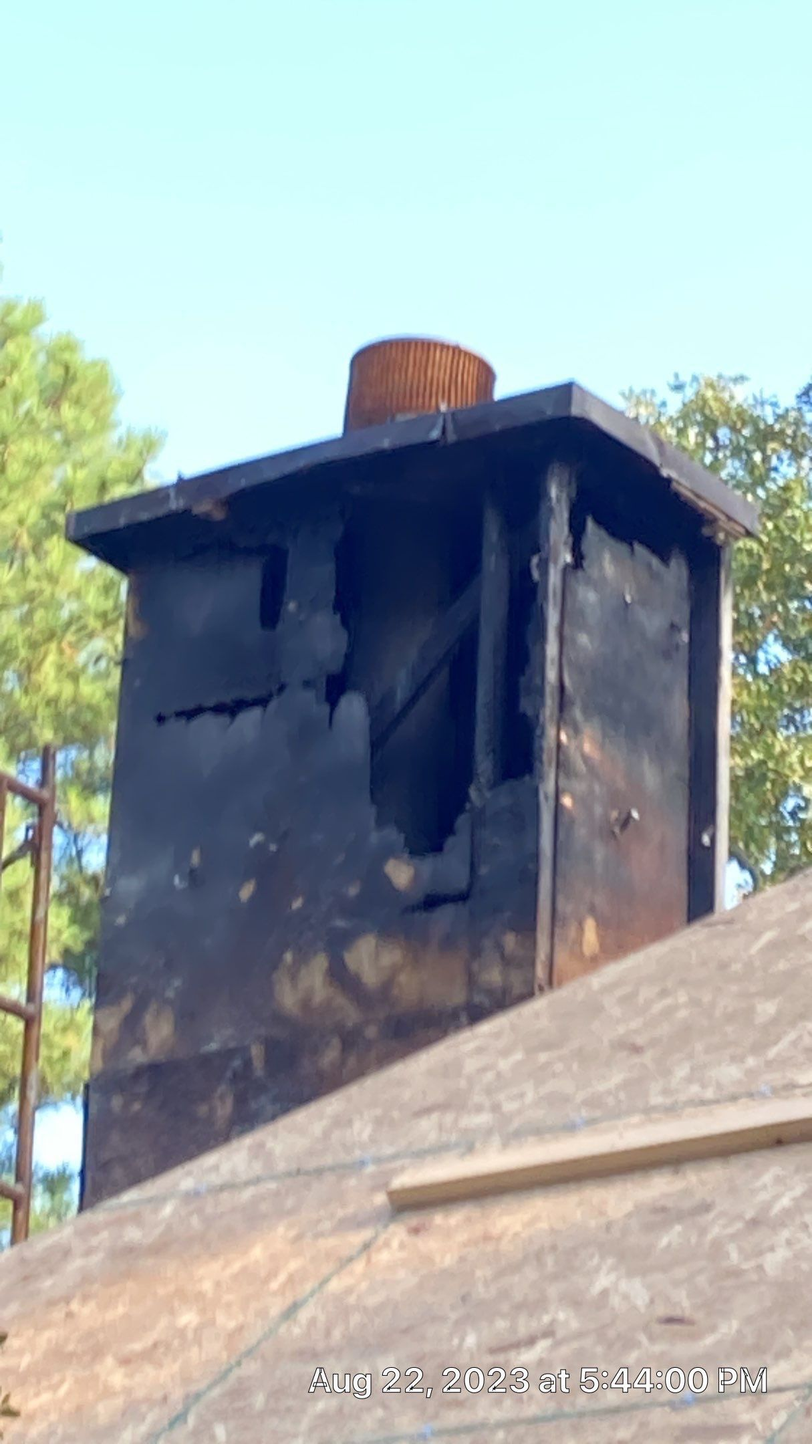
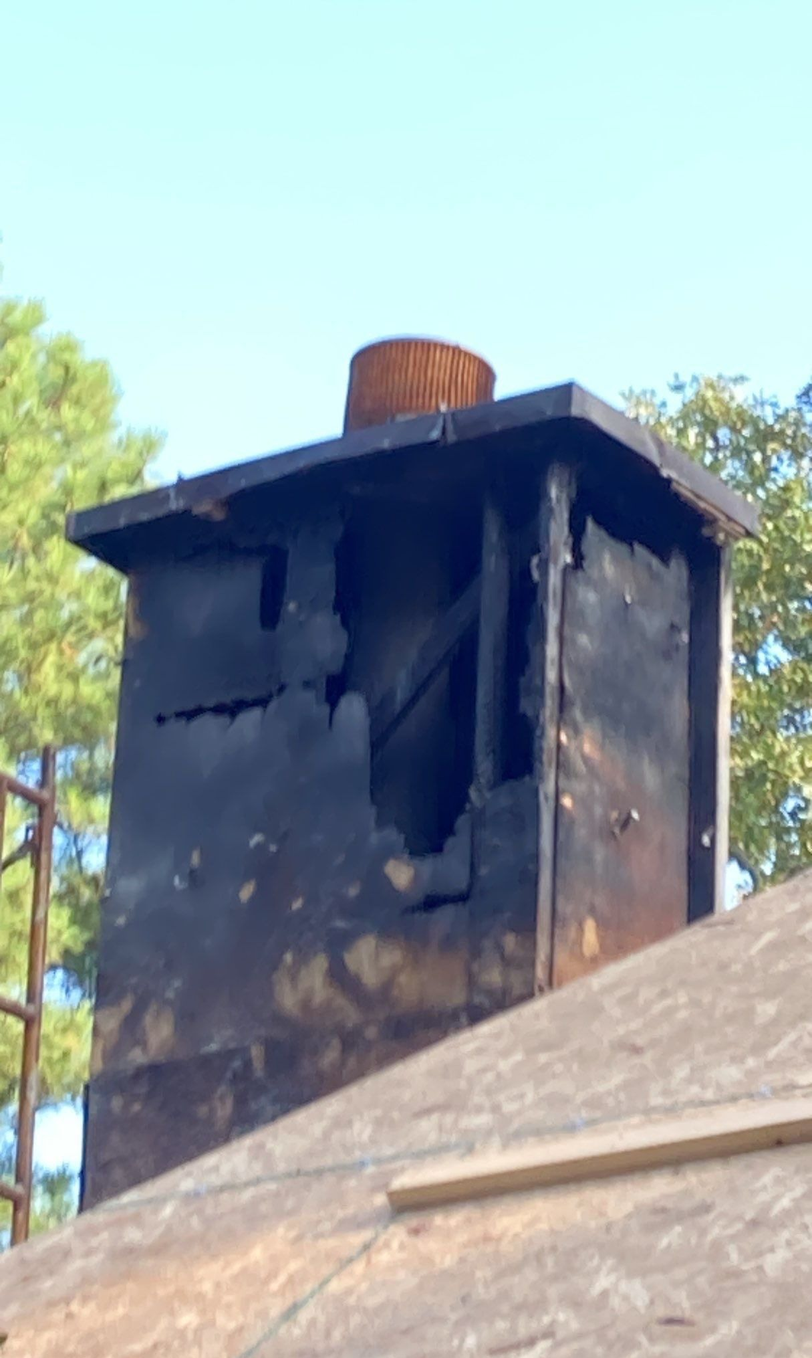
Deploy complete optimized homepage

diff --git a/index.html b/index.html
@@ -12,17 +12,17 @@
   <meta property="og:site_name" content="Crain Bros Inc">
   <meta property="og:locale" content="en_US">
   <meta name="twitter:card" content="summary_large_image">
-  <meta property="og:image" content="https://services.crainbrosinc.com/images/page-assets/home-page/homepage-social-card-northeast-arkansas-crain-bros-inc-01.jpg">
-  <meta property="og:image:secure_url" content="https://services.crainbrosinc.com/images/page-assets/home-page/homepage-social-card-northeast-arkansas-crain-bros-inc-01.jpg">
-  <meta property="og:image:type" content="image/jpeg">
-  <meta property="og:image:width" content="1200">
-  <meta property="og:image:height" content="630">
-  <meta property="og:image:alt" content="Crain Bros Inc restoration, repairs, remodeling and construction social preview for Northeast Arkansas property owners">
-  <meta name="twitter:image" content="https://services.crainbrosinc.com/images/page-assets/home-page/homepage-social-card-northeast-arkansas-crain-bros-inc-01.jpg">
-  <meta name="twitter:image:alt" content="Crain Bros Inc restoration, repairs, remodeling and construction social preview for Northeast Arkansas property owners">
   <meta name="twitter:title" content="Restoration, Repairs &amp; Construction | Crain Bros Inc | Arkansas">
   <meta name="twitter:description" content="Crain Bros Inc provides restoration, repair, construction, inspection, consulting, plumbing, waterproofing, and remodeling services across Northeast Arkansas.">
   <meta name="google-site-verification" content="Vm2zaCWHNgJCrOvj8Az38ZfC3V48h4SuFMLG1rSOB3w">
+  <meta property="og:image:alt" content="Crain Bros Inc restoration, repairs, remodeling and construction social preview for Northeast Arkansas property owners">
+  <meta property="og:image:height" content="630">
+  <meta property="og:image:secure_url" content="https://services.crainbrosinc.com/images/page-assets/home-page/homepage-social-card-northeast-arkansas-crain-bros-inc-01.jpg">
+  <meta property="og:image:type" content="image/jpeg">
+  <meta property="og:image:width" content="1200">
+  <meta name="twitter:image:alt" content="Crain Bros Inc restoration, repairs, remodeling and construction social preview for Northeast Arkansas property owners">
+  <meta property="og:image" content="https://services.crainbrosinc.com/images/page-assets/home-page/homepage-social-card-northeast-arkansas-crain-bros-inc-01.jpg">
+  <meta name="twitter:image" content="https://services.crainbrosinc.com/images/page-assets/home-page/homepage-social-card-northeast-arkansas-crain-bros-inc-01.jpg">
   <link rel="canonical" href="https://services.crainbrosinc.com/">
   <link rel="icon" href="favicon.ico" sizes="32x32">
   <link rel="stylesheet" href="css/styles-v3.css">
@@ -105,14 +105,14 @@
     </nav>
   </div>
 </header>
-<main id="main-content">
+<main>
   <section class="hero">
     <div class="container">
-      <h1>Restoration, Repairs &amp; Construction in Northeast Arkansas</h1>
-      <p class="lead">Crain Bros Inc is a family owned Arkansas contractor based in Jonesboro. Since 1984 we have diagnosed what damaged a property, designed the repair, and rebuilt it to current building code. We self-perform our trades.</p>
+      <h1>Restoration, Repairs, Remodeling &amp; Construction in Northeast Arkansas</h1>
+      <p class="lead">Every property owner has different needs, and every building has its own history, purpose, and conditions. Crain Bros Inc starts by listening to what the property owner and occupants need from the property. We use building science, practical inspection, and an understanding of how the structure and its systems work together to evaluate the building and plan the right solution. From there, we design and carry out the appropriate restoration, repairs, improvements, alterations, remodeling, or construction. Our services are tailored around the property and the property owner's priorities for function, comfort, efficiency, appearance, occupancy, and future use. We are a family owned and operated Arkansas contractor based in Jonesboro, serving residential and commercial property owners across Northeast Arkansas since 1984.</p>
       <div class="hero-actions">
-        <a class="btn btn-primary" href="tel:+18709356019">Call (870) 935-6019</a>
-        <a class="btn btn-secondary" href="pages/services.html">View Services</a>
+        <a class="btn homepage-orange-cta" href="tel:+18709356019">Call Us to Discuss Your Property Needs</a>
+        <a class="btn homepage-orange-cta" href="pages/services.html">View Services</a>
       </div>
       <div class="hero-badges">
         <span class="badge">Licensed and Insured</span>
@@ -124,43 +124,49 @@
   <section class="section section-accent">
     <div class="container">
       <h2>What We Do</h2>
-      <p>Six service categories covering the full life of a property, from the first hour after damage occurs through a finished custom remodel. We self-perform roofing, siding, gutters, masonry, decks, HVAC, plumbing, electrical, flooring, painting, trim carpentry, cabinetry, countertops, framing, concrete, windows and doors, insulation, and drywall.</p>
+      <p>Some property owners come to us because part of their property has been damaged or keeps causing problems. Other property owners need the building to serve a new purpose, feel more comfortable, use energy more efficiently, support a different occupancy, or simply work better for everyday life. Our service portals connect inspection, design, restoration, improvement, and construction work so property owners can find the help that fits their property without trying to piece together the solution on their own.</p>
       <div class="grid-3">
         <article class="tile">
-          <img class="tile-photo" src="images/page-assets/home-page/service-cards/fire-damage-restoration/fire-damage-restoration-northeast-arkansas-crain-bros-inc-service-card-01.jpg" alt="Emergency property damage response by Crain Bros Inc in Northeast Arkansas" loading="lazy">
-          <h3>Emergency Response</h3>
-          <p class="muted">Stop the damage from getting worse. Board-up, roof tarping, water extraction, temporary stabilization, and documentation of the property as it was found. Reachable 24 hours a day.</p>
-          <a class="text-link" href="pages/emergency-response.html">Learn more</a>
-        </article>
-        <article class="tile">
-          <img class="tile-photo" src="images/page-assets/home-page/service-cards/building-inspection/building-inspection-northeast-arkansas-crain-bros-inc-service-card-01.jpg" alt="Building inspection and diagnostics by Crain Bros Inc in Northeast Arkansas" loading="lazy">
-          <h3>Building Inspection &amp; Diagnostics</h3>
-          <p class="muted">Find what caused the damage and document what is actually there. Inspection, damage assessment, scope development, building code review, and third-party independent lab testing.</p>
-          <a class="text-link" href="pages/inspection-diagnosis-design.html">Learn more</a>
-        </article>
-        <article class="tile">
-          <img class="tile-photo" src="images/page-assets/home-page/service-cards/building-restoration/building-restoration-northeast-arkansas-crain-bros-inc-service-card-01.jpg" alt="Property and building restoration by Crain Bros Inc in Northeast Arkansas" loading="lazy">
           <h3>Property &amp; Building Restoration</h3>
-          <p class="muted">Water, fire, mold, and storm damage restoration, plus personal property and contents care. Each damage type is mitigated, cleaned, verified, and rebuilt.</p>
-          <a class="text-link" href="pages/building-restoration.html">Learn more</a>
+          <img class="homepage-full-frame-photo" src="images/page-assets/home-page/service-cards/fire-damage-restoration/fire-damage-restoration-northeast-arkansas-crain-bros-inc-service-card-01.jpg" alt="Fire-damaged chimney and building exterior requiring property restoration by Crain Bros Inc in Northeast Arkansas" loading="lazy">
+          <p class="muted">When a property has been damaged, Crain Bros Inc helps the property owner move from the immediate problem toward a complete and lasting restoration. We assess the affected areas, address the conditions that can continue causing damage, clean or remediate materials when needed, verify the property is ready for the next phase, and rebuild the damaged parts of the structure. Keeping mitigation, restoration, and reconstruction connected under one primary contractor gives the property owner a clearer path from the first response through the completed work.</p>
+          <p class="homepage-service-list muted">Services include <a class="text-link" href="pages/water-damage.html">Water Damage Restoration</a>, <a class="text-link" href="pages/fire-damage.html">Fire Damage Restoration</a>, <a class="text-link" href="pages/mold-damage.html">Mold Damage Restoration</a>, <a class="text-link" href="pages/storm-damage.html">Storm Damage Restoration</a>, <a class="text-link" href="pages/contents-care.html">Personal Property &amp; Contents Care</a>, <a class="text-link" href="pages/general-contracting.html">General Restoration Contracting</a>, <a class="text-link" href="pages/framing.html">Framing Damage Restoration</a>, <a class="text-link" href="pages/roofing.html">Roofing Damage Restoration</a>, <a class="text-link" href="pages/drywall.html">Drywall Damage Restoration</a>, <a class="text-link" href="pages/flooring.html">Flooring Damage Restoration</a>, <a class="text-link" href="pages/siding.html">Siding Damage Restoration</a>.</p>
+          <a class="homepage-portal-button" href="pages/building-restoration.html">Explore Property &amp; Building Restoration</a>
         </article>
         <article class="tile">
-          <img class="tile-photo" src="images/page-assets/home-page/service-cards/construction/construction-northeast-arkansas-crain-bros-inc-service-card-01.jpg" alt="General contracting and construction by Crain Bros Inc in Northeast Arkansas" loading="lazy">
-          <h3>General Contracting</h3>
-          <p class="muted">New construction, additions, full rebuilds, and commercial projects. Full design and delivery from foundations through custom framing, with construction management on every job.</p>
-          <a class="text-link" href="pages/general-contracting.html">Learn more</a>
-        </article>
-        <article class="tile">
-          <img class="tile-photo" src="images/page-assets/home-page/service-cards/remodeling/remodeling-northeast-arkansas-crain-bros-inc-service-card-01.jpg" alt="Custom remodeling by Crain Bros Inc in Northeast Arkansas" loading="lazy">
           <h3>Remodeling</h3>
-          <p class="muted">Custom kitchens, custom bathrooms, and whole-home renovation. Cabinetry, countertops, trim carpentry, flooring, painting, windows and doors, built by our own crews.</p>
-          <a class="text-link" href="pages/remodeling.html">Learn more</a>
+          <img class="homepage-full-frame-photo" src="images/page-assets/home-page/service-cards/remodeling/remodeling-custom-tile-shower-northeast-arkansas-crain-bros-inc-service-card-02.jpg" alt="Custom tile shower completed by Crain Bros Inc as part of a Northeast Arkansas bathroom remodel" loading="lazy">
+          <p class="muted">Remodeling should make an existing property work better for the people who use it. Crain Bros Inc provides custom kitchens, bathrooms and showers, whole-home renovation, cabinetry, countertops, flooring, painting, trim carpentry, plumbing, electrical, HVAC, windows, doors, insulation, and drywall. The design can address layout, storage, comfort, convenience, indoor air quality, energy use, accessibility, finishes, and the property owner's daily routines.</p>
+          <p class="homepage-service-list muted">Services include <a class="text-link" href="pages/custom-kitchens.html">Custom Kitchens</a>, <a class="text-link" href="pages/custom-bathrooms.html">Custom Bathrooms</a>, Whole-Home Renovation, <a class="text-link" href="pages/cabinetry.html">Cabinetry</a>, <a class="text-link" href="pages/countertops.html">Countertops</a>, <a class="text-link" href="pages/trim-carpentry.html">Trim Carpentry</a>, <a class="text-link" href="pages/flooring.html">Flooring</a>, <a class="text-link" href="pages/painting.html">Painting</a>, <a class="text-link" href="pages/windows-doors.html">Windows &amp; Doors</a>, <a class="text-link" href="pages/drywall.html">Drywall</a>, <a class="text-link" href="pages/plumbing.html">Plumbing</a>, <a class="text-link" href="pages/electrical.html">Electrical</a>, <a class="text-link" href="pages/hvac.html">HVAC</a>, <a class="text-link" href="pages/insulation.html">Insulation</a>, <a class="text-link" href="pages/roofing.html">Roofing</a>, <a class="text-link" href="pages/siding.html">Siding</a>, <a class="text-link" href="pages/decks.html">Decks</a>, <a class="text-link" href="pages/masonry.html">Masonry</a>, <a class="text-link" href="pages/concrete.html">Concrete</a>.</p>
+          <a class="homepage-portal-button" href="pages/remodeling.html">Explore Remodeling Services</a>
         </article>
         <article class="tile">
-          <img class="tile-photo" src="images/page-assets/home-page/service-cards/waterproofing/waterproofing-northeast-arkansas-crain-bros-inc-service-card-01.jpg" alt="Foundation, drainage and waterproofing by Crain Bros Inc in Northeast Arkansas" loading="lazy">
-          <h3>Foundation, Drainage &amp; Waterproofing</h3>
-          <p class="muted">Foundation repair, french drains, waterproofing, crawlspace encapsulation, retaining walls, and drainage correction. Most foundation problems are water problems.</p>
-          <a class="text-link" href="pages/foundation-drainage-waterproofing.html">Learn more</a>
+          <h3>General Contracting</h3>
+          <img class="homepage-full-frame-photo" src="images/page-assets/home-page/service-cards/construction/construction-northeast-arkansas-crain-bros-inc-service-card-01.jpg" alt="General contracting and construction by Crain Bros Inc in Northeast Arkansas" loading="lazy">
+          <p class="muted">General Contracting gives property owners one qualified contractor to manage work that is more involved, more complex, or spread across several trades and building systems. Crain Bros Inc maintains the contractor licensing and good standing required for the work we undertake and manages the applicable insurance, bonding, building-code, permit, and construction responsibilities connected to the project. We plan and perform new construction, improvements, alterations, major repairs, additions, rebuilds, and other coordinated work through a managed construction process. We also work extensively with commercial buildings that need a change in function, use, or occupancy. In those projects, we help design and construct the building so it can meet the requirements and practical needs of its new purpose.</p>
+          <p class="homepage-service-list muted">Services include <a class="text-link" href="pages/construction.html">Construction</a>, Construction Management, Commercial Construction, <a class="text-link" href="pages/foundations.html">Foundations</a>, <a class="text-link" href="pages/framing.html">Custom Framing</a>, <a class="text-link" href="pages/concrete.html">Concrete</a>, <a class="text-link" href="pages/masonry.html">Masonry</a>, <a class="text-link" href="pages/roofing.html">Roofing</a>, <a class="text-link" href="pages/siding.html">Siding</a>, <a class="text-link" href="pages/gutters.html">Gutters</a>, <a class="text-link" href="pages/plumbing.html">Plumbing</a>, <a class="text-link" href="pages/electrical.html">Electrical</a>, <a class="text-link" href="pages/hvac.html">HVAC</a>, <a class="text-link" href="pages/insulation.html">Insulation</a>, <a class="text-link" href="pages/drywall.html">Drywall</a>, <a class="text-link" href="pages/windows-doors.html">Windows &amp; Doors</a>, <a class="text-link" href="pages/decks.html">Decks</a>, <a class="text-link" href="pages/painting.html">Painting</a>.</p>
+          <a class="homepage-portal-button" href="pages/general-contracting.html">Explore General Contracting Services</a>
+        </article>
+        <article class="tile">
+          <h3>Building Inspection &amp; Diagnostics</h3>
+          <img class="homepage-full-frame-photo" src="images/page-assets/home-page/service-cards/building-inspection/building-inspection-northeast-arkansas-crain-bros-inc-service-card-01.jpg" alt="Building inspection and diagnostics by Crain Bros Inc in Northeast Arkansas" loading="lazy">
+          <p class="muted">A building should be understood before work is designed or repairs begin. Crain Bros Inc uses building science, field inspection, measurements, documentation, and an evaluation of how materials and building systems interact to understand the property and the need being reported. We investigate damage and recurring conditions, and we also inspect properties when a property owner is planning a change in use, an improvement, or work intended to improve comfort, function, efficiency, or long-term performance. The information developed through this process gives the property owner a stronger basis for deciding what should happen next.</p>
+          <p class="homepage-service-list muted">Services include <a class="text-link" href="pages/building-inspector.html">Building Inspection</a>, Damage Assessment, Documentation Packages, <a class="text-link" href="pages/building-consultant.html">Building Consulting</a>, Scope Development, Building Code Review, Third-Party Lab Testing, Repair Planning, <a class="text-link" href="pages/building-consultant.html">Independent Review</a>.</p>
+          <a class="homepage-portal-button" href="pages/inspection-diagnosis-design.html">Explore Building Inspection &amp; Diagnostics</a>
+        </article>
+        <article class="tile">
+          <h3>Foundation Repair, Drainage &amp; Waterproofing</h3>
+          <img class="homepage-full-frame-photo" src="images/page-assets/home-page/service-cards/waterproofing/waterproofing-northeast-arkansas-crain-bros-inc-service-card-01.jpg" alt="Foundation, drainage and waterproofing by Crain Bros Inc in Northeast Arkansas" loading="lazy">
+          <p class="muted">A stable, dry property begins with the way the structure is supported and the way water moves around, beneath, and away from the building. Crain Bros Inc evaluates foundation movement, structural support, grading, drainage, groundwater, crawlspace moisture, basement water entry, and retaining-wall needs as connected property conditions. We design and perform foundation repairs, structural support corrections, drainage improvements, waterproofing, crawlspace work, and retaining-wall construction or reconstruction around the building and the property owner's long-term needs.</p>
+          <p class="homepage-service-list muted">Services include <a class="text-link" href="pages/foundations.html">Foundation Construction &amp; Repair</a>, House Leveling and Structural Support Correction, <a class="text-link" href="pages/waterproofing.html">Waterproofing</a>, Basement Water Management, French Drains, Surface Drainage and Grading, Roof Runoff and Downspout Discharge, Erosion Correction, Crawlspace Water Investigation, <a class="text-link" href="pages/crawlspace-encapsulation.html">Crawlspace Encapsulation</a>, Permanent Dehumidification, Drainage and Sump Coordination, Crawlspace Monitoring, <a class="text-link" href="pages/retaining-walls.html">Retaining Wall Construction</a>, <a class="text-link" href="pages/retaining-walls.html">Retaining Wall Reconstruction</a>.</p>
+          <a class="homepage-portal-button" href="pages/foundation-drainage-waterproofing.html">Explore Foundation, Drainage &amp; Waterproofing</a>
+        </article>
+        <article class="tile">
+          <h3>Emergency Response</h3>
+          <img class="homepage-full-frame-photo" src="images/page-assets/home-page/service-cards/emergency-response/emergency-response-flooded-basement-northeast-arkansas-crain-bros-inc-service-card-01.jpg" alt="Flooded basement requiring emergency water extraction and property damage mitigation in Northeast Arkansas" loading="lazy">
+          <p class="muted">When an emergency threatens a property, Crain Bros Inc is available to help the property owner protect the building and begin the recovery process. We respond to urgent water, fire, storm, impact, structural, and weather-related conditions, evaluate what has happened, document the affected areas, and perform the immediate work needed to reduce further damage. Our emergency response can then connect directly with the inspection, restoration, repair, and reconstruction services the property needs next.</p>
+          <p class="homepage-service-list muted">Services include Disaster Response, Emergency Board-Up, Roof Tarping, Emergency Water Extraction, Temporary Structural Stabilization, Site Securing, Emergency Debris Removal, <a class="text-link" href="pages/inspection-diagnosis-design.html">Building Inspection &amp; Diagnostics</a>, <a class="text-link" href="pages/building-restoration.html">Property &amp; Building Restoration</a>, <a class="text-link" href="pages/water-damage.html">Water Damage Restoration</a>.</p>
+          <a class="homepage-portal-button" href="pages/emergency-response.html">View Emergency Response Services</a>
         </article>
       </div>
     </div>
@@ -168,23 +174,23 @@
   <section class="section">
     <div class="container">
       <h2>How We Work</h2>
-      <p>Most property damage is a symptom of something else. A stain on a ceiling is evidence, not the problem. Repairing what is visible without establishing what produced it gives you a repair that fails, and the second repair costs more than the first. Every project we take follows the same sequence.</p>
+      <p>Crain Bros Inc begins by understanding what the property owner and occupants need from the building. The project may involve repairing damage, correcting a recurring condition, improving comfort or efficiency, supporting a different occupancy, meeting accessibility needs, or preparing the property for a new purpose. We inspect and analyze the building, apply building science to the conditions and systems involved, and develop a solution that fits the property's use, code requirements, construction, and long-term purpose.</p>
       <div class="grid-3">
         <article class="tile">
-          <h3>Diagnose the Cause</h3>
-          <p class="muted">Establish what actually produced the damage before anything is repaired. What shows on the surface is frequently smaller than what has been affected.</p>
+          <h3>Diagnose the Need</h3>
+          <p class="muted">We begin with the need the property owner is trying to solve. That need may involve damage, moisture, structural movement, an inefficient layout, uncomfortable rooms, changing occupancy, accessibility, energy use, maintenance, appearance, or a planned improvement. We inspect the property and analyze both the existing conditions and the desired result before deciding what work belongs in the solution.</p>
         </article>
         <article class="tile">
           <h3>Design the Solution</h3>
-          <p class="muted">Define what work is required, in what order, and what current building code requires for it. Code is a design input, not a box checked at the end.</p>
+          <p class="muted">We design the solution around the property and the people who use it. The plan considers how the space should function, how the work affects connected materials and building systems, what codes and permits apply, and what the property owner wants to improve. The result may involve restoration, repairs, remodeling, alterations, construction, or a coordinated combination of services.</p>
         </article>
         <article class="tile">
-          <h3>Prevent Recurrence</h3>
-          <p class="muted">Correct the condition that caused the damage. A repair that restores the building without addressing the cause has a schedule attached to it.</p>
+          <h3>Protect the Property Going Forward</h3>
+          <p class="muted">When damage or a recurring condition is involved, we address what allowed it to happen instead of covering the visible symptom. For improvement projects, we look ahead at durability, maintenance, comfort, efficiency, indoor air quality, flexibility, and future use. The goal is work that continues serving the property and its occupants after the project is complete.</p>
         </article>
         <article class="tile">
-          <h3>Restore the Damage</h3>
-          <p class="muted">Rebuild the property with our own crews. The same contractor who documented the damage performs the repair, so nothing is lost handing off between companies.</p>
+          <h3>Perform the Work</h3>
+          <p class="muted">Crain Bros Inc carries the approved solution through the field work as the primary contractor responsible for project management and performance. Keeping inspection, design, work sequence, trades, and the completed result under one accountable contractor helps preserve the plan and keeps the property owner from having to coordinate the same need through multiple contractors and agreements.</p>
         </article>
       </div>
     </div>
@@ -202,8 +208,8 @@
           <p class="muted">Yes. We are open 24 hours a day and respond to property emergencies. Call (870) 935-6019.</p>
         </article>
         <article class="tile">
-          <h3>Do you subcontract your work?</h3>
-          <p class="muted">We self-perform our trades, including roofing, siding, gutters, masonry, decks, HVAC, plumbing, electrical, flooring, painting, trim carpentry, cabinetry, countertops, framing, concrete, windows and doors, insulation, and drywall.</p>
+          <h3>Who is responsible for managing and performing the work on my property?</h3>
+          <p class="muted">Crain Bros Inc serves as the primary contractor responsible for managing and performing the work covered by our service contracts. Property owners have one accountable contractor coordinating the project, the work sequence, and the people working on the property. That means you do not have to manage the same property need through multiple contractors and separate agreements.</p>
         </article>
         <article class="tile">
           <h3>Do you work on both residential and commercial properties?</h3>

diff --git a/css/styles-v3.css b/css/styles-v3.css
@@ -1110,3 +1110,64 @@ main h2 {
   object-position: center center;
   background: #0b1220;
 }
+/* CBI homepage property-life-cycle portal presentation v1 */
+.homepage-full-frame-photo {
+  display: block;
+  width: 100%;
+  height: auto;
+  max-height: none;
+  object-fit: contain;
+  object-position: center center;
+  background: #0b1220;
+}
+
+.homepage-portal-button,
+.homepage-orange-cta {
+  display: inline-flex;
+  align-items: center;
+  justify-content: center;
+  min-width: 270px;
+  padding: 0.85rem 1.25rem;
+  border: 1px solid #EC6017;
+  border-radius: 999px;
+  background: #EC6017;
+  color: #FFFFFF !important;
+  font-weight: 800;
+  line-height: 1.2;
+  text-align: center;
+  text-decoration: none;
+}
+
+.homepage-portal-button {
+  width: 100%;
+  min-width: 0;
+  margin-top: auto;
+}
+
+.homepage-portal-button:hover,
+.homepage-portal-button:focus,
+.homepage-orange-cta:hover,
+.homepage-orange-cta:focus {
+  background: #c94c0e;
+  border-color: #c94c0e;
+  color: #FFFFFF !important;
+}
+
+@media (max-width: 760px) {
+  .homepage-portal-button,
+  .homepage-orange-cta {
+    width: 100%;
+    min-width: 0;
+  }
+}
+/* CBI homepage linked service phrases */
+.homepage-service-list a.text-link {
+  color: #EC6017;
+  font-weight: 700;
+  text-decoration: none;
+}
+
+.homepage-service-list a.text-link:hover,
+.homepage-service-list a.text-link:focus {
+  color: #c94c0e;
+}
